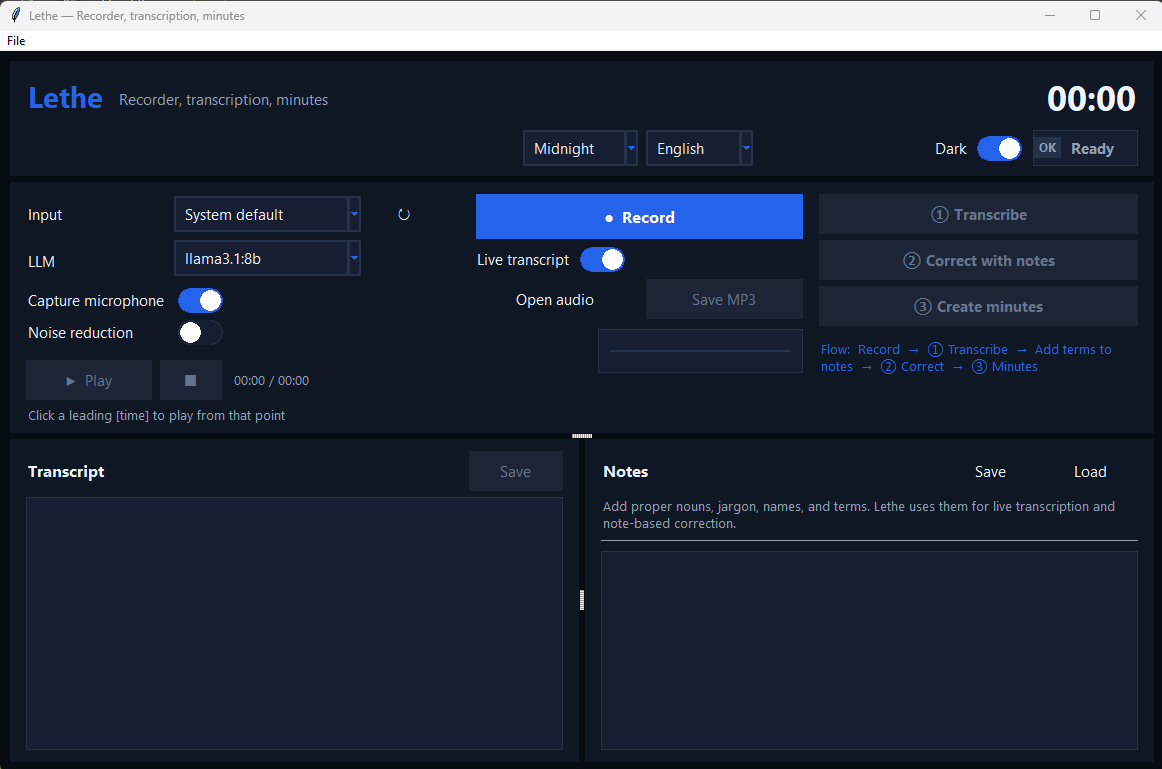
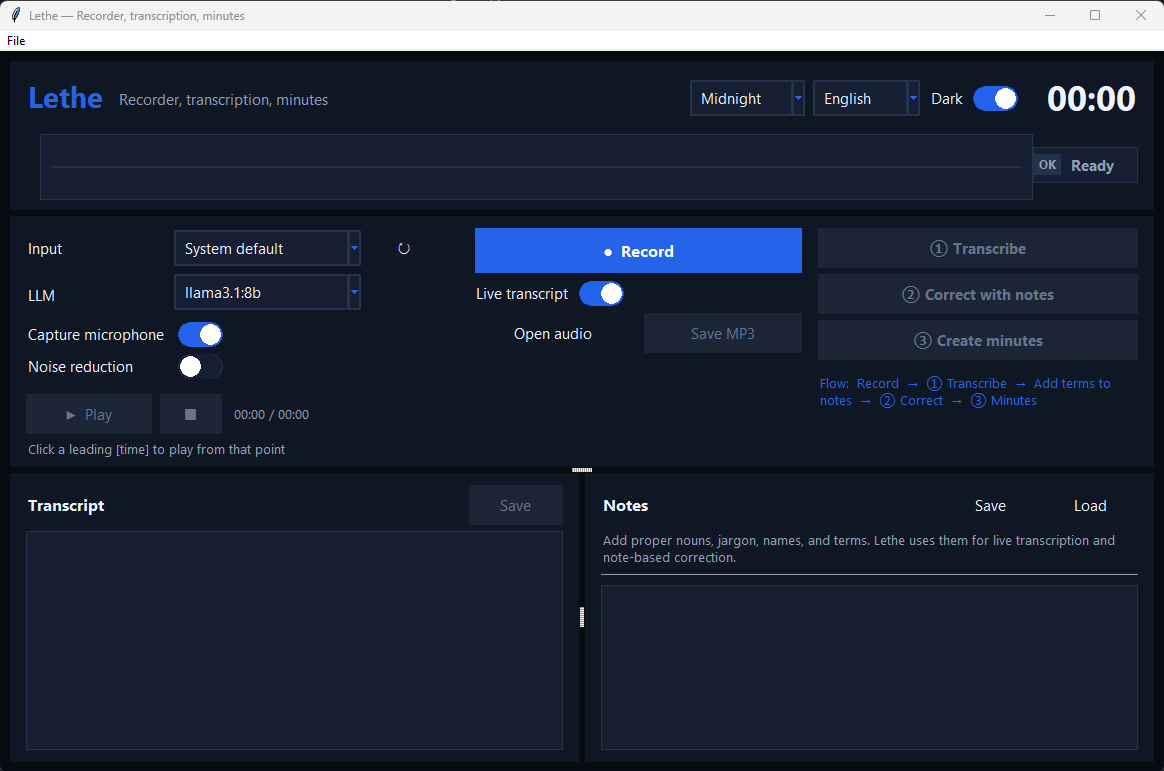
Move wave meter into header

diff --git a/src/recorder/lethe.py b/src/recorder/lethe.py
@@ -815,21 +815,34 @@ class App:
         inner = ttk.Frame(header, style="Header.TFrame")
         inner.pack(fill="x", padx=PAD_X, pady=10)
         inner.columnconfigure(1, weight=1)
-        inner.columnconfigure(4, weight=1)
         ttk.Label(inner, text=APP_NAME, style="Wordmark.TLabel").grid(row=0, column=0, sticky="w")
         self.tagline_label = ttk.Label(inner, text=f"  {self._tr('tagline')}", style="Tagline.TLabel")
         self.tagline_label.grid(row=0, column=1, sticky="w", padx=(4, 12), pady=(6, 0))
-        self.timer = ttk.Label(inner, text="00:00", style="Timer.TLabel")
-        self.timer.grid(row=0, column=5, sticky="e")
-        self.status_banner = tk.Frame(inner, bd=0, highlightthickness=1)
-        self.status_banner.grid(row=1, column=5, sticky="e", pady=(8, 0), ipadx=10, ipady=4)
-        self.status_icon = tk.Label(self.status_banner, text="OK", width=3, anchor="center", font=self._font(-2, "bold"))
-        self.status_icon.pack(side="left", padx=(0, 7))
-        self.status = tk.Label(self.status_banner, text=self._tr("status_ready"), font=self._font(0, "bold"))
-        self.status.pack(side="left")
-        self._set_status(self._tr("status_ready"), "ready")
+
+        settings = ttk.Frame(inner, style="Header.TFrame")
+        settings.grid(row=0, column=2, sticky="e", padx=(12, 14), pady=(4, 0))
+        self.theme_combo = ttk.Combobox(
+            settings,
+            state="readonly",
+            width=10,
+            values=list(THEME_LABELS),
+            textvariable=self._theme_var,
+            font=self._font(),
+        )
+        self.theme_combo.pack(side="left", padx=(0, 8))
+        self.theme_combo.bind("<<ComboboxSelected>>", self._on_theme_change)
+        self.language_combo = ttk.Combobox(
+            settings,
+            state="readonly",
+            width=9,
+            values=list(LANGUAGE_CODES),
+            textvariable=self._language_var,
+            font=self._font(),
+        )
+        self.language_combo.pack(side="left", padx=(0, 10))
+        self.language_combo.bind("<<ComboboxSelected>>", self._on_language_change)
         self.dark_check = Switch(
-            inner,
+            settings,
             text=self._tr("dark"),
             variable=self._dark_var,
             colors=_ui_colors,
@@ -837,27 +850,25 @@ class App:
             font=self._font(),
             default_font_size=DEFAULT_FONT_SIZE,
         )
-        self.dark_check.grid(row=1, column=4, sticky="e", padx=(8, 10), pady=(8, 0))
-        self.language_combo = ttk.Combobox(
-            inner,
-            state="readonly",
-            width=9,
-            values=list(LANGUAGE_CODES),
-            textvariable=self._language_var,
-            font=self._font(),
-        )
-        self.language_combo.grid(row=1, column=3, sticky="e", padx=(8, 0), pady=(8, 0))
-        self.language_combo.bind("<<ComboboxSelected>>", self._on_language_change)
-        self.theme_combo = ttk.Combobox(
-            inner,
-            state="readonly",
-            width=10,
-            values=list(THEME_LABELS),
-            textvariable=self._theme_var,
-            font=self._font(),
-        )
-        self.theme_combo.grid(row=1, column=2, sticky="e", padx=(8, 0), pady=(8, 0))
-        self.theme_combo.bind("<<ComboboxSelected>>", self._on_theme_change)
+        self.dark_check.pack(side="left")
+
+        self.timer = ttk.Label(inner, text="00:00", style="Timer.TLabel")
+        self.timer.grid(row=0, column=3, sticky="e")
+        self.status_banner = tk.Frame(inner, bd=0, highlightthickness=1)
+        self.status_banner.grid(row=1, column=3, sticky="e", pady=(8, 0), ipadx=10, ipady=4)
+        self.status_icon = tk.Label(self.status_banner, text="OK", width=3, anchor="center", font=self._font(-2, "bold"))
+        self.status_icon.pack(side="left", padx=(0, 7))
+        self.status = tk.Label(self.status_banner, text=self._tr("status_ready"), font=self._font(0, "bold"))
+        self.status.pack(side="left")
+        self._set_status(self._tr("status_ready"), "ready")
+
+        meter = ttk.Frame(inner, style="Header.TFrame")
+        meter.grid(row=1, column=0, columnspan=3, sticky="ew", pady=(12, 0))
+        meter.columnconfigure(1, weight=1)
+        self.meter_caption = ttk.Label(meter, text="", style="Hint.TLabel")
+        self.meter_caption.grid(row=0, column=0, sticky="w", padx=(0, 10))
+        self.wave = WaveMeter(meter, colors=_ui_colors, height=64)
+        self.wave.grid(row=0, column=1, sticky="ew")
         inner.bind("<Configure>", lambda event: self.tagline_label.configure(wraplength=max(120, event.width // 3)))
 
     # ---------- main layout ----------
@@ -962,14 +973,6 @@ class App:
         self.open_button = ttk.Button(controls, text=self._tr("open_audio"), width=11, command=self.open_audio)
         self.open_button.grid(row=2, column=0, sticky="ew", padx=(0, 6))
         Tooltip(self.open_button, TOOLTIP_OPEN)
-
-        # --- wave row: audio input while recording / analysis pulse while busy ---
-        meter_row = ttk.Frame(controls, style="Card.TFrame")
-        meter_row.grid(row=3, column=0, columnspan=2, sticky="ew", pady=(10, 0))
-        self.meter_caption = ttk.Label(meter_row, text="", style="Hint.TLabel", width=16)
-        self.meter_caption.pack(side="left")
-        self.wave = WaveMeter(meter_row, colors=_ui_colors)
-        self.wave.pack(side="left", fill="x", expand=True, padx=(6, 0))
 
         # --- numbered workflow actions ---
         actions = ttk.Frame(parent, style="Card.TFrame")
